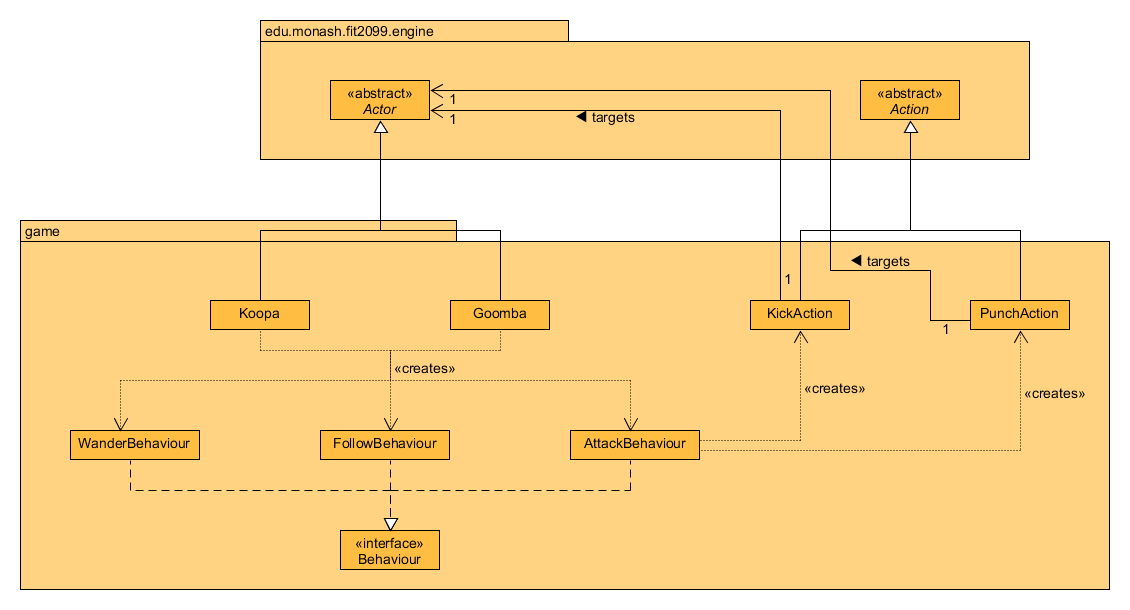
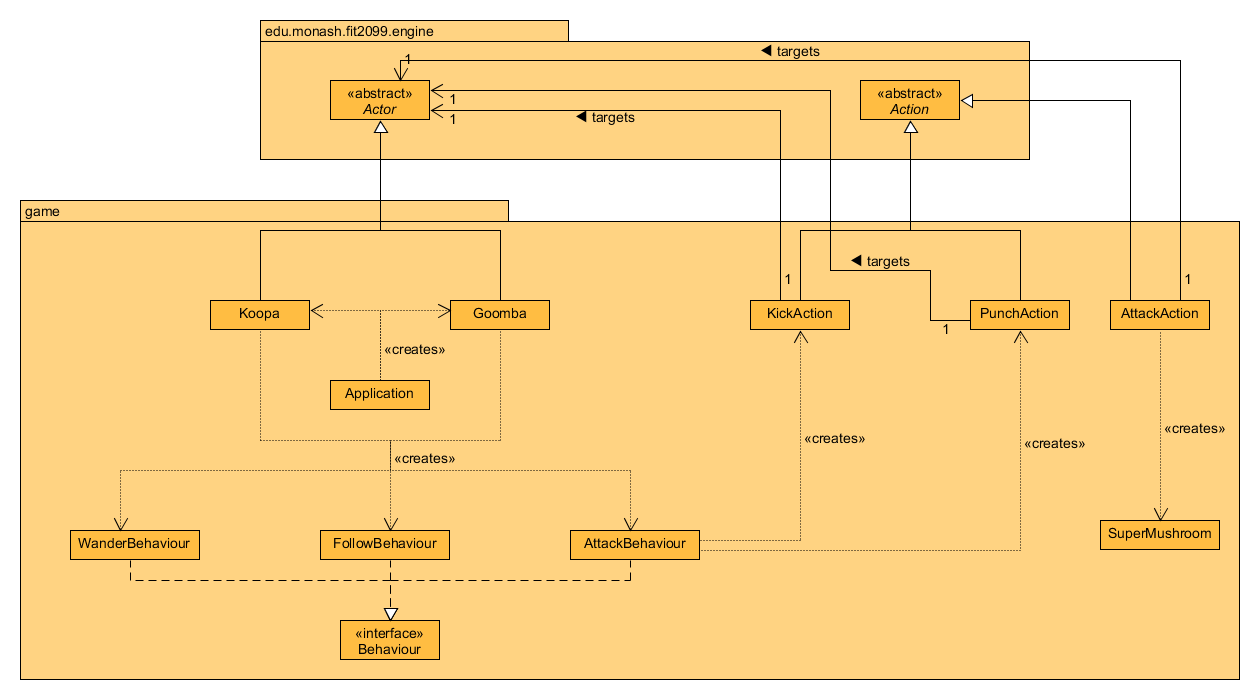
Updated REQ2 Design Rationale and REQ3 Class Diagram, and initial commit of REQ3 Design Rationale

diff --git a/design-docs/REQ3_DesignRationale.md b/design-docs/REQ3_DesignRationale.md
@@ -1,0 +1,26 @@
+# REQ 3: Enemies Design Rationale
+
+For reference, here are the class diagrams and sequence diagrams.
+
+## Class Diagram
+
+![req3 class diagram](./REQ3_class.png "REQ2 Class Diagram")
+
+## Sequence Diagram
+
+![req3 sequence diagram]()
+
+## Rationale
+The Koopa and Goomba are enemies that appear in the game that can attack
+the Player. The Koopa and Goomba classes instantiate the following classes:</br></br>
+(1). WanderBehaviour: It is used to allow the enemies to wander around the map.</br>
+(2). FollowBehaviour: It is used to make the enemies follow the Player if the Player
+is standing next to them.</br>
+(3). AttackBehaviour: It is used to make the enemies automatically attack the Player
+if the Player is standing next to them.</br></br>
+The AttackBehaviour class creates the KickAction class which is used by a Goomba
+to kick(attack) the Player and the PunchAction class which is used by a Koopa
+to punch(attack) the Player.</br></br>
+The AttackAction class which is used by the Player to attack enemies will drop
+create a new SuperMushroom object after the Player breaks a Koopa shell with 
+a Wrench.

diff --git a/design-docs/REQ2_DesignRationale.md b/design-docs/REQ2_DesignRationale.md
@@ -8,6 +8,8 @@ For reference, here are the class diagrams and sequence diagrams.
 
 ## Sequence Diagram
 
+![req2 sequence diagram](./REQ2_sequence.png "REQ3 Sequence Diagram")
+
 ## Rationale
 
 The JumpActorAction class is a class used to allow the Player to jump onto
@@ -20,8 +22,12 @@ location is. </br>
 can use to get and modify information about the Player. </br>
 (3). Location, which is used to represent the location of the Player and 
 the types of ground (Wall and Tree).</br></br>
-The Location class will be particularly useful in differentiating the 
-different grounds when new Ground objects with different heights and 
+The Exit class will be used to retrieve all the directions that the Player
+can move to and the Location class will extend upon that and get the type
+of ground to verify that the ground is a Wall or a Tree that the Player
+can attempt to jump onto.
+The Exit and Location classes will be particularly useful in differentiating 
+the different grounds when new Ground objects with different heights and 
 depths can be added to the game without interfering with existing grounds.
 
 
